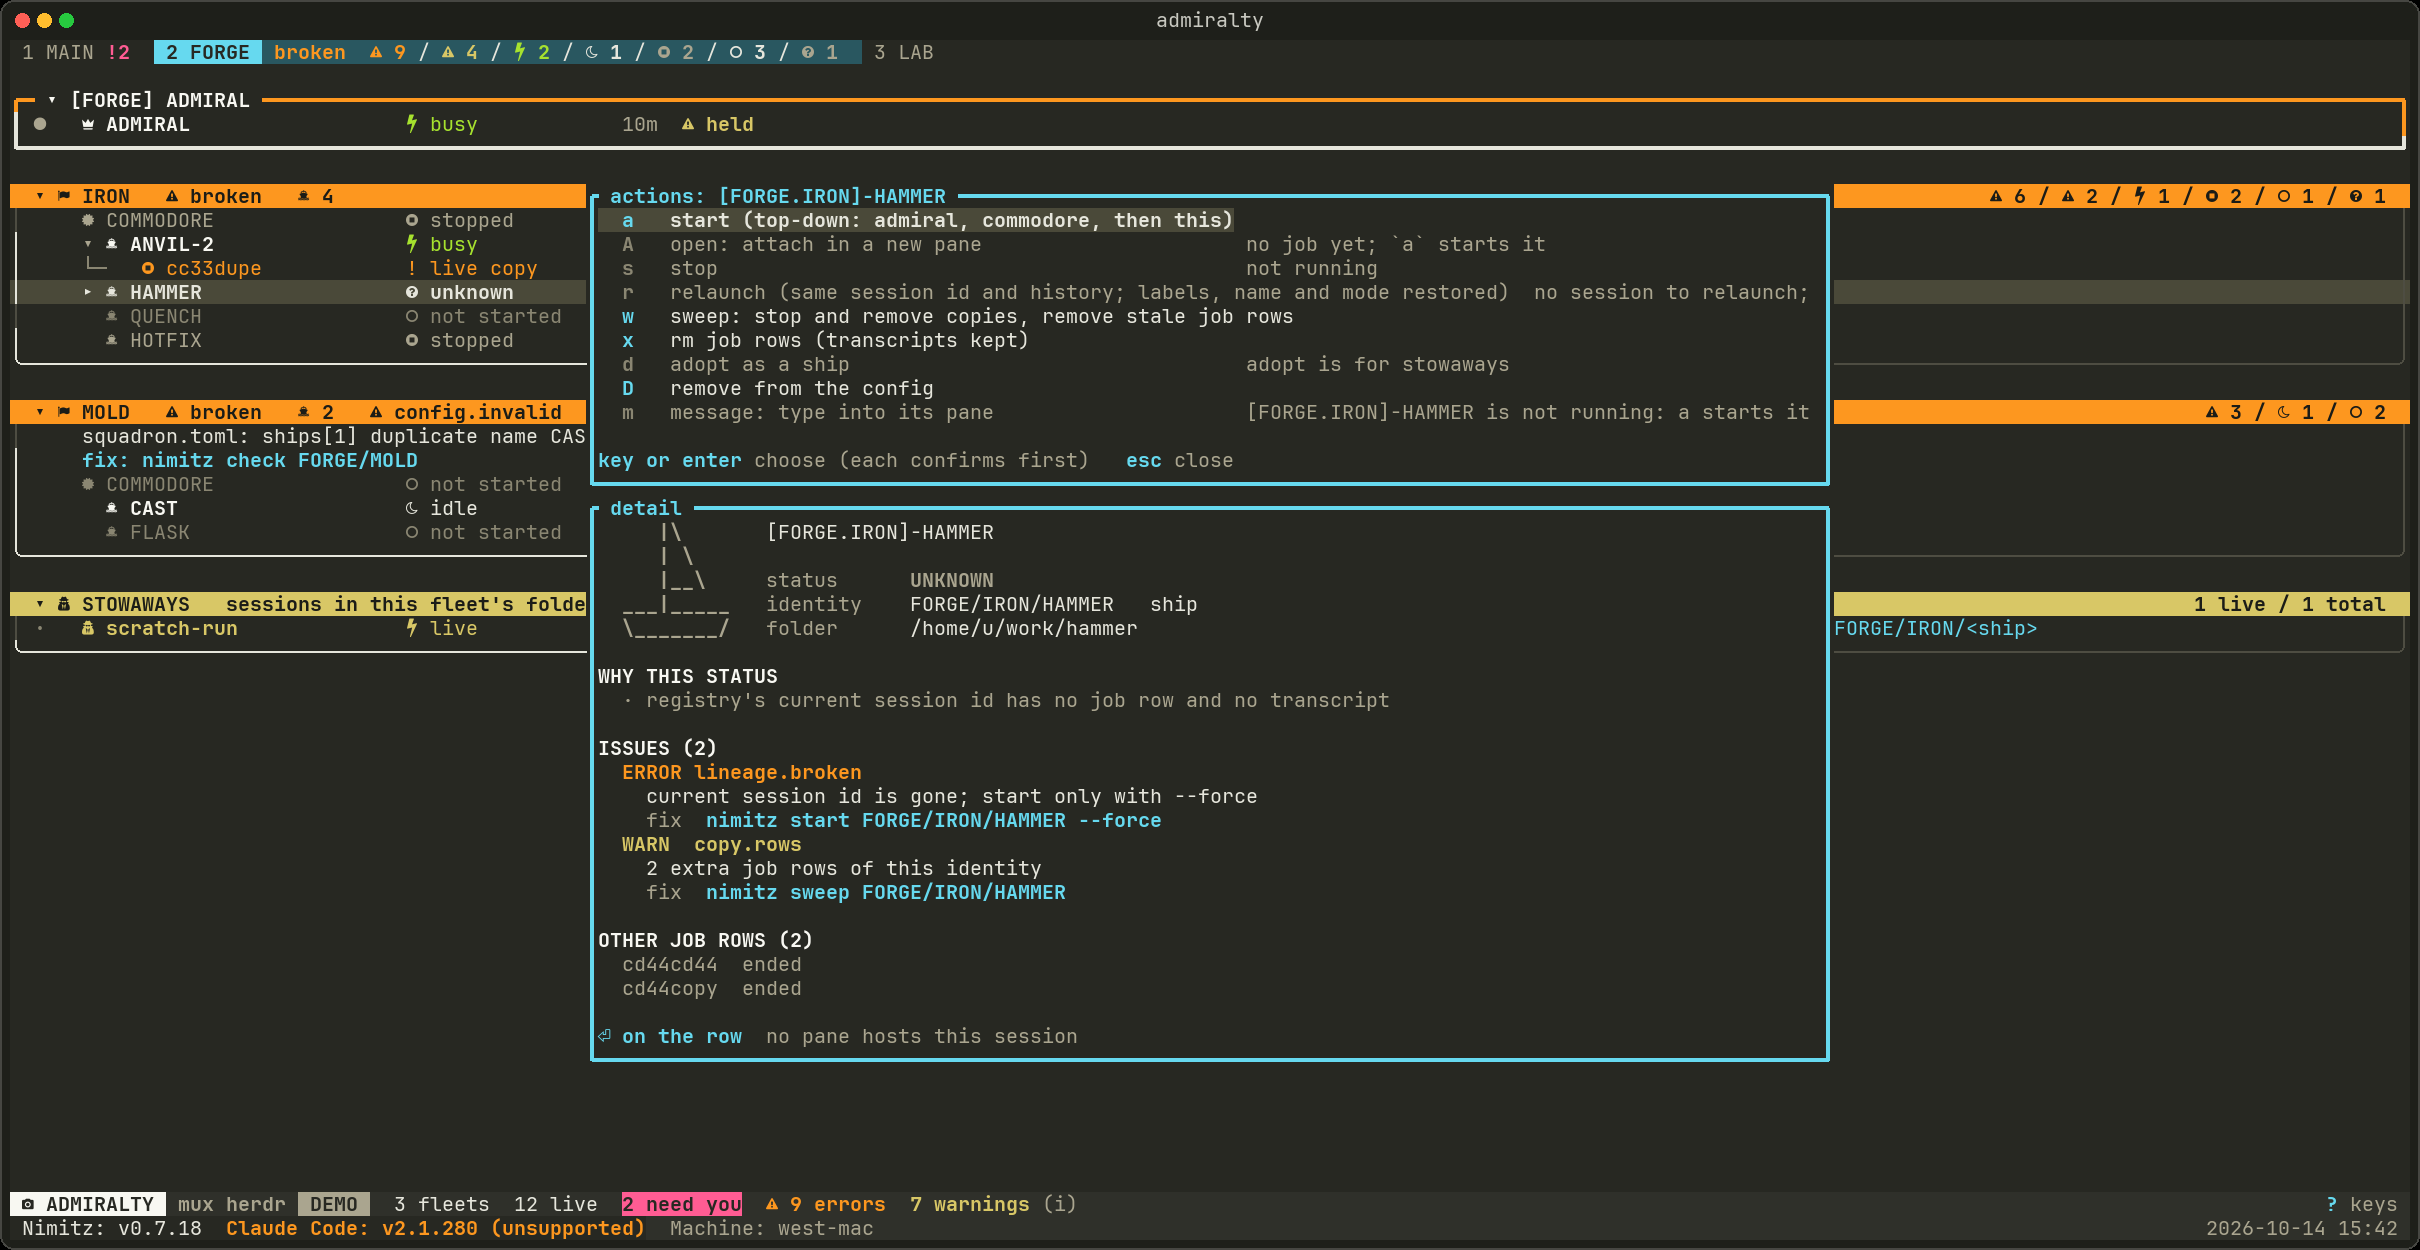
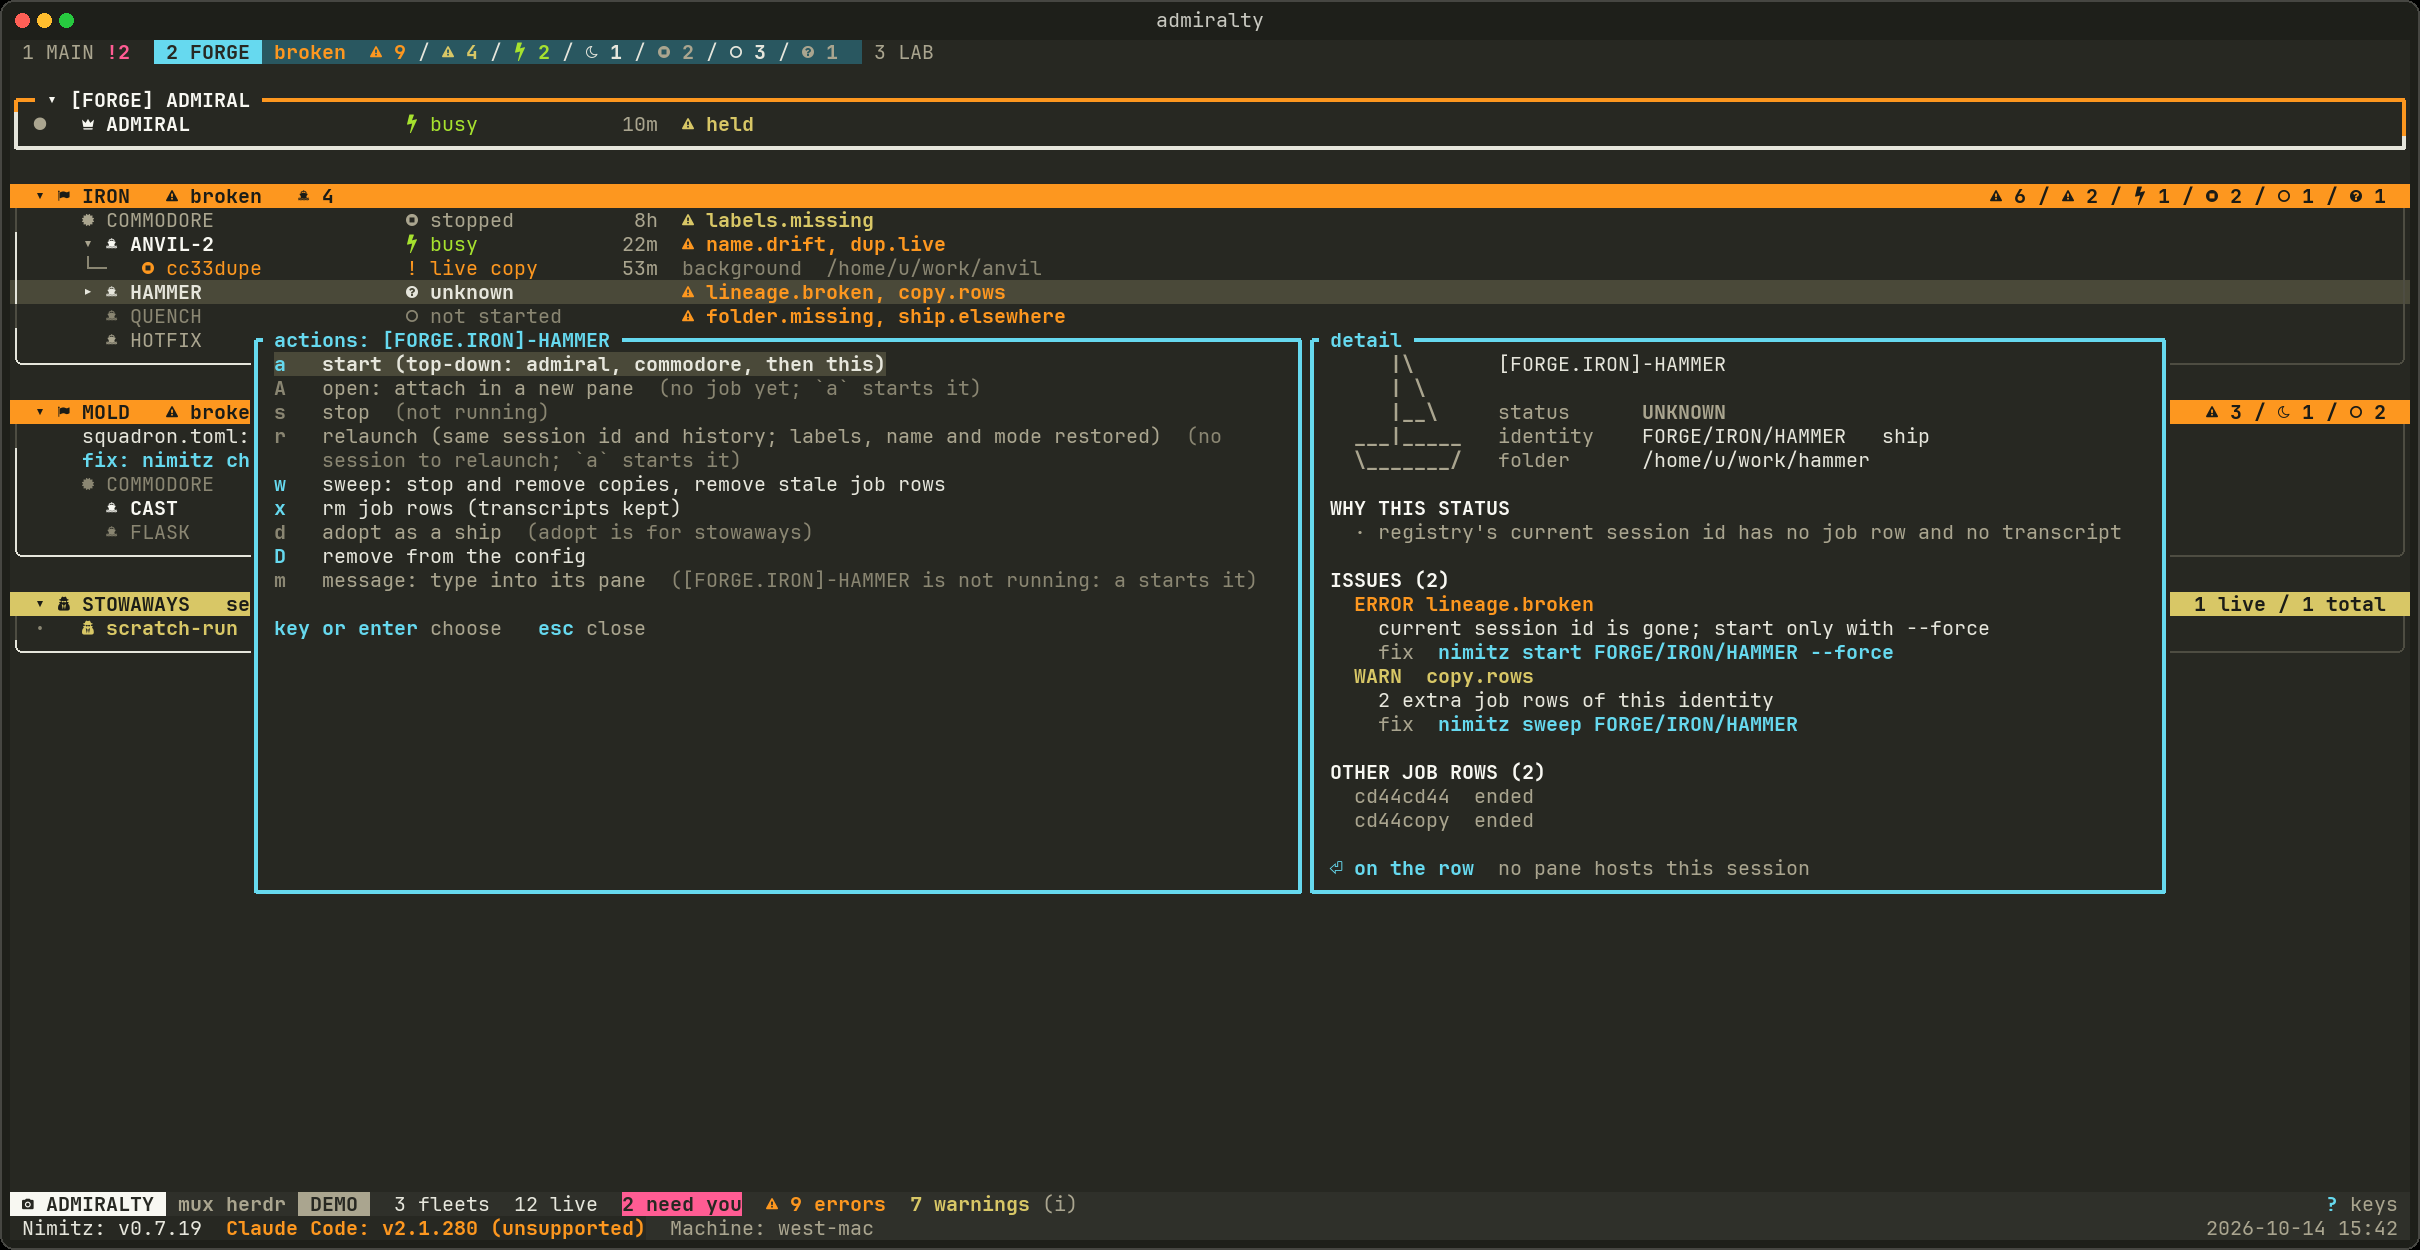
chore(release): 0.7.19

diff --git a/DEVELOPMENT.md b/DEVELOPMENT.md
@@ -973,6 +973,17 @@ Modes: `admiralty`, `--demo`, `--demo-monitor`, `--fixture FILE`, `--sandbox DIR
 `--interval SECS`, `--exit-after-jump`, `dump [--width N] [--ansi] [--height N]
 [--select ID] [--detail]`, `sandbox create|env`, `herdr toggle|watch|rezoom`.
 
+### Popups
+
+Every popup goes through `render::panel`: one of three widths (`PANEL_SMALL` 50,
+`PANEL_STD` 100, `PANEL_WIDE` 160), the height of its content, centred in the
+body, stopping at `PANEL_MARGIN`. Past that it scrolls, with `border_bar` on its
+right border. `modal_block` is the one frame, and a popup's keys are its last
+line. The finder has a fixed height (`FINDER_HEIGHT`) so it doesn't jump as its
+results change. `split` gives the wide popups a list and the detail beside it,
+from 120 columns. The message panel reads `evidence::last_output` once, when it
+opens. `App.panel_rows` holds what the last draw could scroll.
+
 ### Loop
 
 A **loader** thread owns the `DataSource`: load, send, wait the interval (default

diff --git a/CHANGELOG.md b/CHANGELOG.md
@@ -1,5 +1,29 @@
 # Changelog
 
+## 0.7.19 (unreleased)
+
+### Added
+
+- **Admiralty's message panel (`m`) shows the member's last output**, read from
+  its transcript when the panel opens, above the box. It opens at the end, with
+  a scrollbar when long (`PgUp`/`PgDn`, arrows, `Home`/`End`, `ctrl-e`/`ctrl-y`);
+  letters still go to the box.
+
+### Changed
+
+- **One design for Admiralty's popups.** Three widths (50, 100, 160), the height
+  of what they show, in the middle of the view, a scrollbar when long, one frame,
+  and the keys on the last line, in the finder, `m`, `x`, `?`, confirm, forms,
+  needs-you, issues and the fleet filter.
+- **`x` has the detail beside the actions** (below them under 120 columns), and
+  a closed action's reason right after its label.
+- **A long plan scrolls** in the confirm panel (`j`/`k`, `PgUp`/`PgDn`) instead
+  of being cut.
+
+### Upgrading
+
+- Install both crates and update the plugin as usual.
+
 ## 0.7.18 (2026-11-01)
 
 ### Changed

diff --git a/README.md b/README.md
@@ -7,7 +7,7 @@
 Run a whole team of Claude Code sessions the way a navy runs its ships: with
 names, a chain of command, and one screen that shows you everything.
 
-Version 0.7.18 ([CHANGELOG](CHANGELOG.md): read "Upgrading" first). Status: in testing (Claude Code 2.1.288 - 2.1.316).
+Version 0.7.19 ([CHANGELOG](CHANGELOG.md): read "Upgrading" first). Status: in testing (Claude Code 2.1.288 - 2.1.316).
 
 Claude Code can leave work running in the background. One or two sessions are
 easy to follow. A dozen are not: which one is stuck on a question, which one
